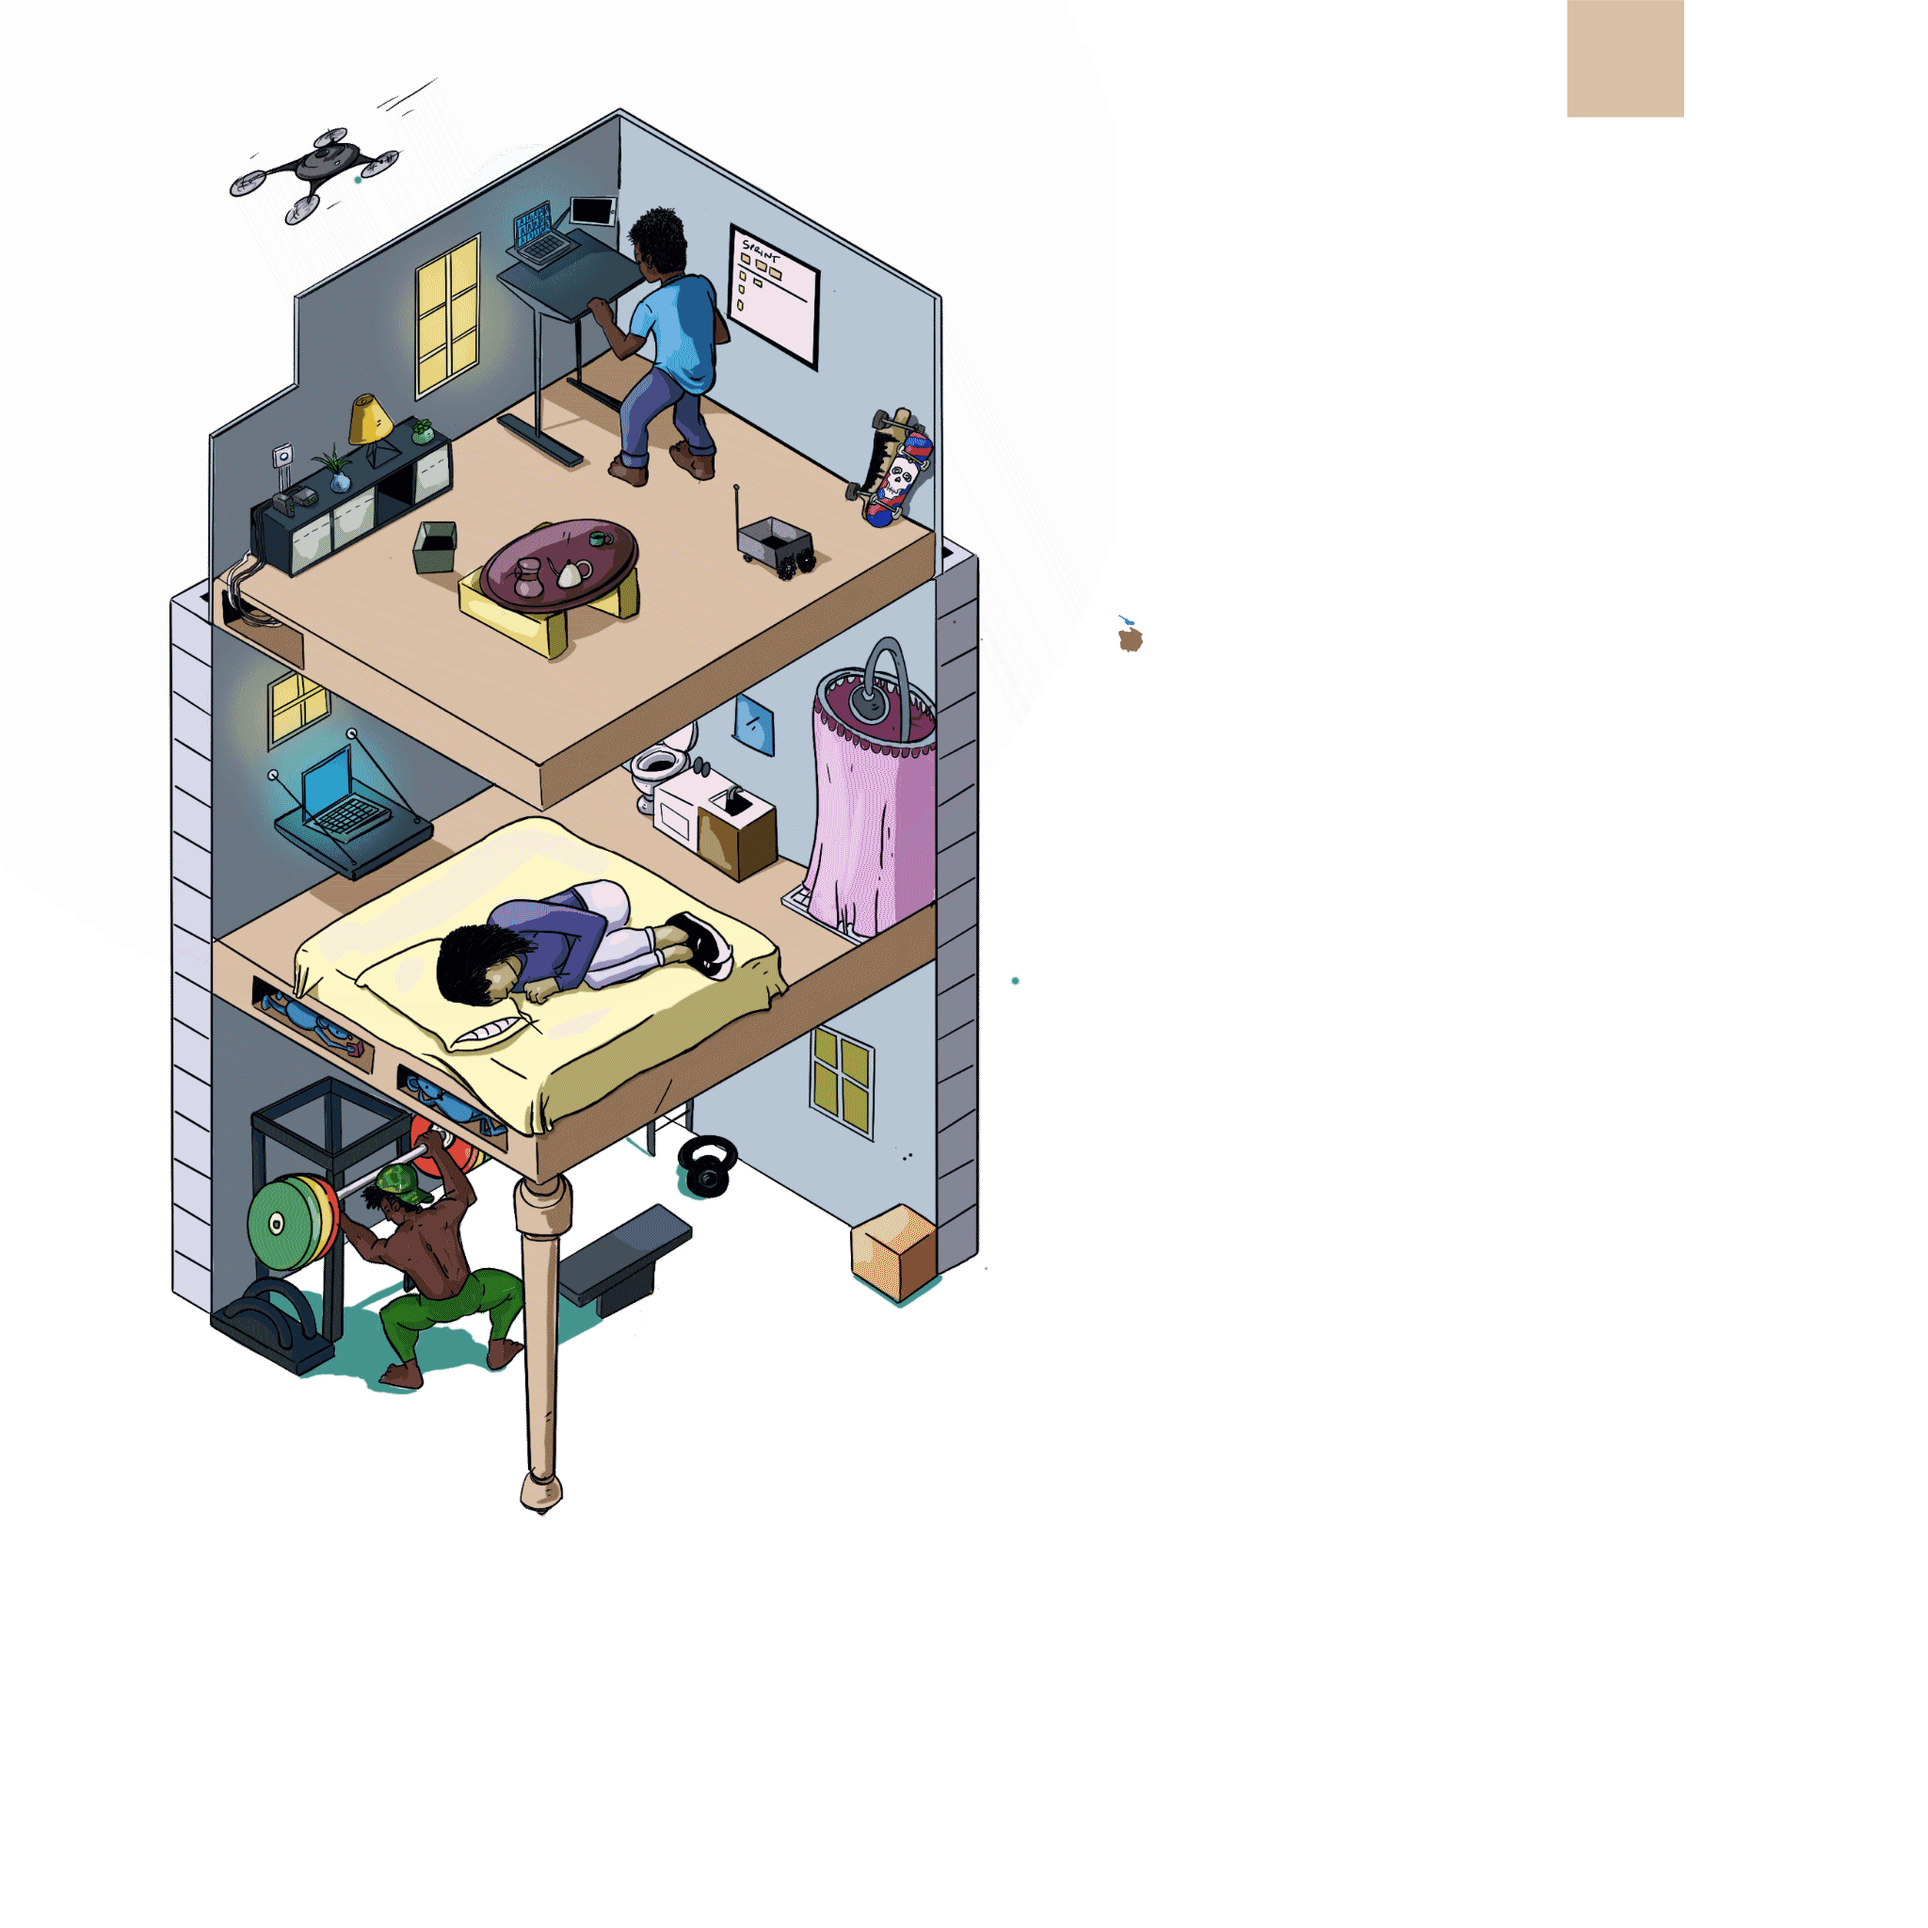
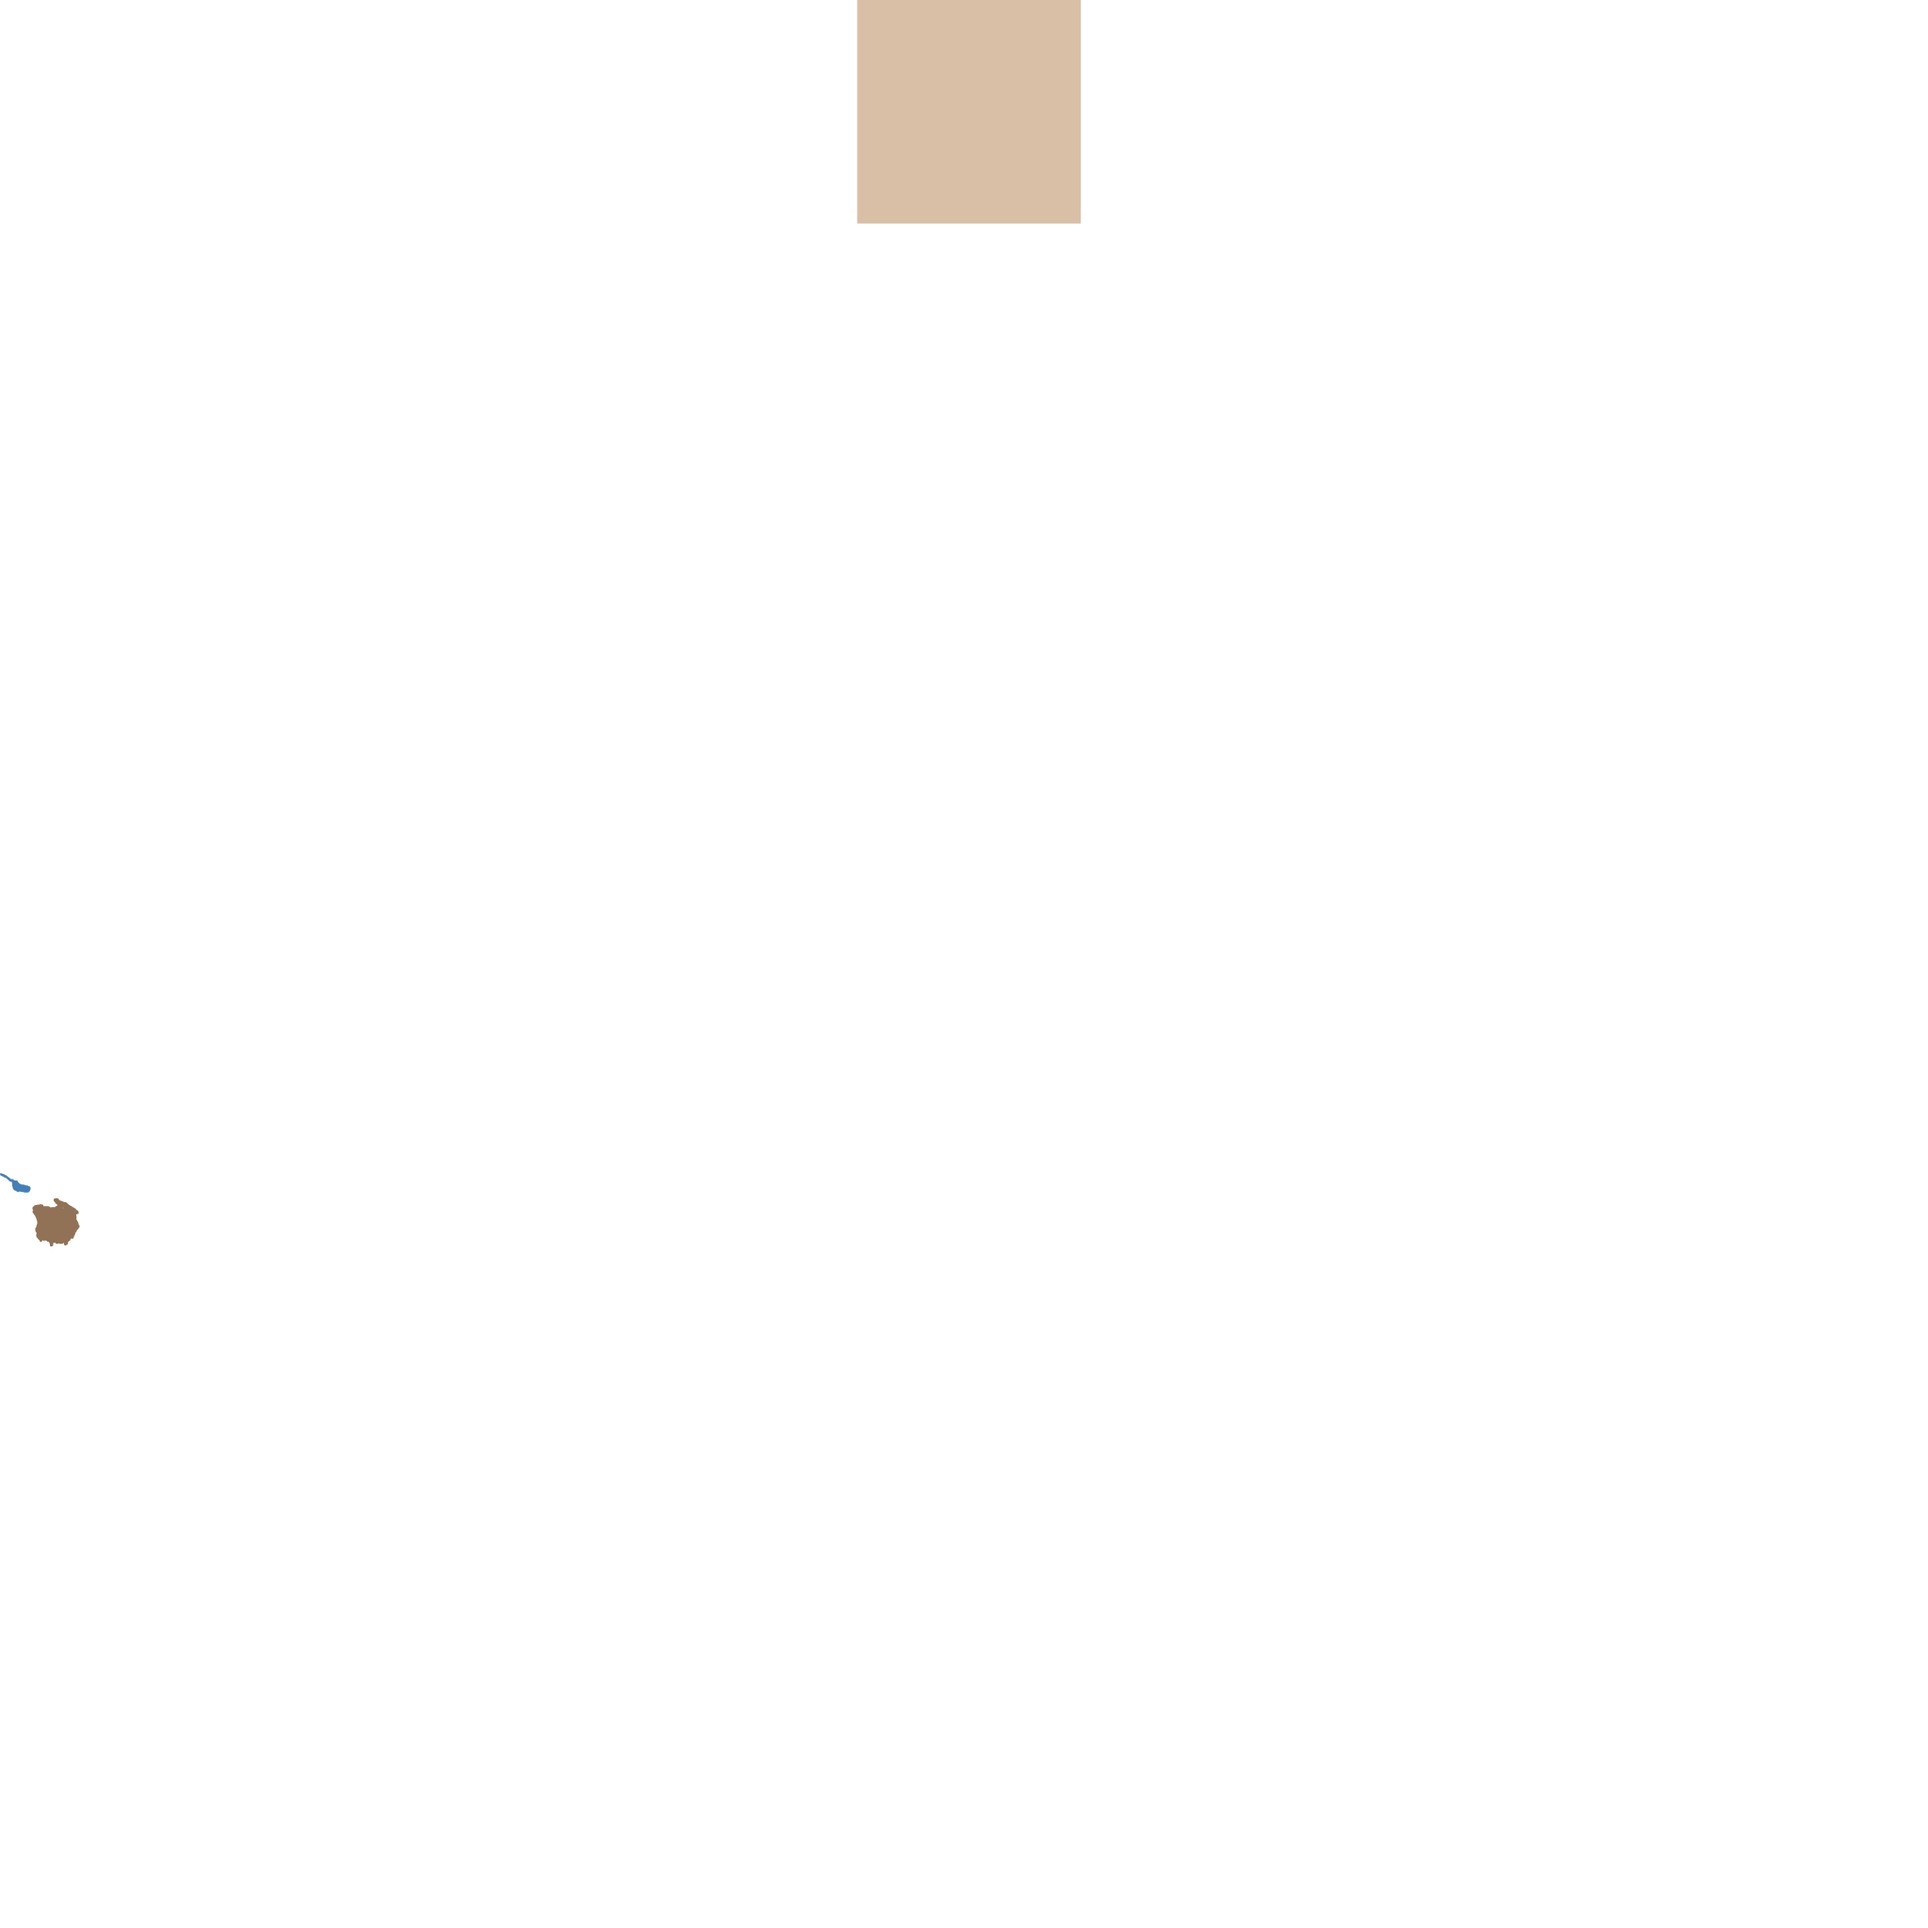
additional adjustments to scale for mobile screens

Changed region(s): [[0.0, 0.0, 0.5625, 0.7812], [0.8125, 0.0, 0.875, 0.0625], [0.5625, 0.3125, 0.5938, 0.3438]]

diff --git a/product_design/Harlem-Apt.js b/product_design/Harlem-Apt.js
@@ -3,8 +3,8 @@
 var p; // shortcut to reference prototypes
 var lib={};var ss={};var img={};
 lib.ssMetadata = [
-		{name:"Harlem_Apt_atlas_1", frames: [[0,0,1186,1612]]},
-		{name:"Harlem_Apt_atlas_2", frames: [[930,0,41,41],[0,0,928,1024]]}
+		{name:"Harlem_Apt_atlas_1", frames: [[0,0,1148,1324]]},
+		{name:"Harlem_Apt_atlas_2", frames: [[0,0,1186,1612]]}
 ];
 
 
@@ -28,22 +28,15 @@ lib.ssMetadata = [
 
 
 
-(lib.CachedBmp_10 = function() {
-	this.initialize(ss["Harlem_Apt_atlas_2"]);
+(lib.CachedBmp_13 = function() {
+	this.initialize(ss["Harlem_Apt_atlas_1"]);
 	this.gotoAndStop(0);
 }).prototype = p = new cjs.Sprite();
 
 
 
-(lib.CachedBmp_9 = function() {
-	this.initialize(ss["Harlem_Apt_atlas_2"]);
-	this.gotoAndStop(1);
-}).prototype = p = new cjs.Sprite();
-
-
-
 (lib.Image3 = function() {
-	this.initialize(ss["Harlem_Apt_atlas_1"]);
+	this.initialize(ss["Harlem_Apt_atlas_2"]);
 	this.gotoAndStop(0);
 }).prototype = p = new cjs.Sprite();
 // helper functions:
@@ -338,11 +331,11 @@ if (reversed == null) { reversed = false; }
 	// Layer_8
 	this.shape = new cjs.Shape();
 	this.shape.graphics.f().s("#000000").ss(0.2,1,1).p("AACAAQAAABgBAAQAAAAgBAAQAAAAgBAAIAAgBQABAAAAAAIABAAQABAAAAAAg");
-	this.shape.setTransform(18.325,607.525);
+	this.shape.setTransform(-37.6845,664.6247,1.2369,1.2369);
 
 	this.shape_1 = new cjs.Shape();
 	this.shape_1.graphics.f("#4580B8").s().p("AASAnIAAgCIACAAIABAAIABABIgBABIgBAAIgCAAgAgPgbIgFgCIAAgBIgBAAIAAgEIABgCIABAAIABgBIADgBIAAAAIAFACIAAACIAAAEIAAAAIgCACIgCABg");
-	this.shape_1.setTransform(16.325,603.725);
+	this.shape_1.setTransform(-40.1582,659.9246,1.2369,1.2369);
 
 	this.timeline.addTween(cjs.Tween.get({}).to({state:[{t:this.shape_1},{t:this.shape}]}).wait(1));
 
@@ -363,13 +356,10 @@ if (reversed == null) { reversed = false; }
 	cjs.MovieClip.apply(this,[props]);
 
 	// cover_up
-	this.instance = new lib.CachedBmp_10();
-	this.instance.setTransform(57.2,623.85,0.5,0.5);
+	this.instance = new lib.CachedBmp_13();
+	this.instance.setTransform(-6.8,48.25,0.5,0.5);
 
-	this.instance_1 = new lib.CachedBmp_9();
-	this.instance_1.setTransform(43.3,109.2,0.5,0.5);
-
-	this.timeline.addTween(cjs.Tween.get({}).to({state:[{t:this.instance_1},{t:this.instance}]}).wait(1));
+	this.timeline.addTween(cjs.Tween.get(this.instance).wait(1));
 
 	this._renderFirstFrame();
 
@@ -389,11 +379,11 @@ if (reversed == null) { reversed = false; }
 
 	// background
 	this.instance = new lib.Image3();
-	this.instance.setTransform(-260,-334,0.8682,0.8682);
+	this.instance.setTransform(-382,-500,1.0738,1.0738);
 
 	this.shape = new cjs.Shape();
 	this.shape.graphics.f("#44968F").s().p("Eg15AE1UAkPgbIBHkgNoMgDBAl0Mg4SAiDg");
-	this.shape.setTransform(278.8,836.775);
+	this.shape.setTransform(284.4872,948.1754,1.2369,1.2369);
 
 	this.timeline.addTween(cjs.Tween.get({}).to({state:[{t:this.shape},{t:this.instance}]}).wait(1));
 
@@ -1016,7 +1006,7 @@ if (reversed == null) { reversed = false; }
 
 	// remote_cart
 	this.instance = new lib.remote_cart();
-	this.instance.setTransform(470.35,159.45,1.5435,1.5435,0,0,0,22.2,24.8);
+	this.instance.setTransform(521.4,110.55,1.909,1.909,0,0,0,22.2,24.9);
 
 	this.timeline.addTween(cjs.Tween.get(this.instance).wait(1));
 
@@ -1038,7 +1028,7 @@ if (reversed == null) { reversed = false; }
 
 	// hand
 	this.instance = new lib.mous();
-	this.instance.setTransform(39.35,616.45,1.5435,1.5435,0,0,0,22.9,0.3);
+	this.instance.setTransform(-11.7,675.65,1.909,1.909,0,0,0,22.9,0.3);
 
 	this.timeline.addTween(cjs.Tween.get(this.instance).wait(1));
 
@@ -1100,7 +1090,7 @@ if (reversed == null) { reversed = false; }
 	// hand_obj_
 	this.hand = new lib.Scene_1_hand();
 	this.hand.name = "hand";
-	this.hand.setTransform(39.3,616.3,1,1,0,0,0,-226.2,198.8);
+	this.hand.setTransform(-11.7,675.5,1,1,0,0,0,-277.2,258);
 	this.hand.depth = 0;
 	this.hand.isAttachedToCamera = 0
 	this.hand.isAttachedToMask = 0
@@ -1113,7 +1103,7 @@ if (reversed == null) { reversed = false; }
 	// Layer_8_obj_
 	this.Layer_8 = new lib.Scene_1_Layer_8();
 	this.Layer_8.name = "Layer_8";
-	this.Layer_8.setTransform(16.3,603.7,1,1,0,0,0,-249.2,186.2);
+	this.Layer_8.setTransform(-40.1,660,1,1,0,0,0,-305.6,242.5);
 	this.Layer_8.depth = 0;
 	this.Layer_8.isAttachedToCamera = 0
 	this.Layer_8.isAttachedToMask = 0
@@ -1126,7 +1116,7 @@ if (reversed == null) { reversed = false; }
 	// remote_cart_obj_
 	this.remote_cart = new lib.Scene_1_remote_cart();
 	this.remote_cart.name = "remote_cart";
-	this.remote_cart.setTransform(333.8,261,1,1,0,0,0,68.3,-156.5);
+	this.remote_cart.setTransform(352.5,236,1,1,0,0,0,87,-181.5);
 	this.remote_cart.depth = 0;
 	this.remote_cart.isAttachedToCamera = 0
 	this.remote_cart.isAttachedToMask = 0
@@ -1139,7 +1129,7 @@ if (reversed == null) { reversed = false; }
 	// cover_up_obj_
 	this.cover_up = new lib.Scene_1_cover_up();
 	this.cover_up.name = "cover_up";
-	this.cover_up.setTransform(275.3,376.7,1,1,0,0,0,9.8,-40.8);
+	this.cover_up.setTransform(280.2,379.3,1,1,0,0,0,14.7,-38.2);
 	this.cover_up.depth = 0;
 	this.cover_up.isAttachedToCamera = 0
 	this.cover_up.isAttachedToMask = 0
@@ -1152,7 +1142,7 @@ if (reversed == null) { reversed = false; }
 	// background_obj_
 	this.background = new lib.Scene_1_background();
 	this.background.name = "background";
-	this.background.setTransform(254.8,366.4,1,1,0,0,0,-10.7,-51.1);
+	this.background.setTransform(254.7,366.3,1,1,0,0,0,-10.8,-51.2);
 	this.background.depth = 0;
 	this.background.isAttachedToCamera = 0
 	this.background.isAttachedToMask = 0
@@ -1165,7 +1155,7 @@ if (reversed == null) { reversed = false; }
 	this._renderFirstFrame();
 
 }).prototype = p = new lib.AnMovieClip();
-p.nominalBounds = new cjs.Rectangle(273.5,430.5,542,851);
+p.nominalBounds = new cjs.Rectangle(158,349,733.5,932.5);
 // library properties:
 lib.properties = {
 	id: '5E33F5F7024F4F88B83C8A35F47BEF85',
@@ -1175,8 +1165,8 @@ lib.properties = {
 	color: "#000000",
 	opacity: 1.00,
 	manifest: [
-		{src:"images/Harlem_Apt_atlas_1.png", id:"Harlem_Apt_atlas_1"},
-		{src:"images/Harlem_Apt_atlas_2.png", id:"Harlem_Apt_atlas_2"}
+		{src:"images/Harlem_Apt_atlas_1.png?1656441634051", id:"Harlem_Apt_atlas_1"},
+		{src:"images/Harlem_Apt_atlas_2.png?1656441634051", id:"Harlem_Apt_atlas_2"}
 	],
 	preloads: []
 };

diff --git a/product_factory/Product Factory.html b/product_factory/Product Factory.html
@@ -22,7 +22,7 @@
   }
 </style>
 <script src="https://code.createjs.com/1.0.0/createjs.min.js"></script>
-<script src="Product Factory.js?1656440699041"></script>
+<script src="Product Factory.js?1656441527810"></script>
 <script>
 var canvas, stage, exportRoot, anim_container, dom_overlay_container, fnStartAnimation;
 function init() {
@@ -67,9 +67,9 @@ function handleComplete(evt,comp) {
 <!-- write your code here -->
 </head>
 <body onload="init();" style="margin:0px;">
-	<div id="animation_container" style="background-color:rgba(0, 0, 0, 1.00); width:1080px; height:863px">
-		<canvas id="canvas" width="1080" height="863" style="position: absolute; display: block; background-color:rgba(0, 0, 0, 1.00);"></canvas>
-		<div id="dom_overlay_container" style="pointer-events:none; overflow:hidden; width:1080px; height:863px; position: absolute; left: 0px; top: 0px; display: block;">
+	<div id="animation_container" style="background-color:rgba(0, 0, 0, 1.00); width:1080px; height:1300px">
+		<canvas id="canvas" width="1080" height="1300" style="position: absolute; display: block; background-color:rgba(0, 0, 0, 1.00);"></canvas>
+		<div id="dom_overlay_container" style="pointer-events:none; overflow:hidden; width:1080px; height:1300px; position: absolute; left: 0px; top: 0px; display: block;">
 		</div>
 	</div>
 </body>

diff --git a/product_factory/Product Factory.js b/product_factory/Product Factory.js
@@ -541,24 +541,24 @@ if (reversed == null) { reversed = false; }
 	this.instance.setTransform(228.75,786.75,1,1,0,0,0,-131.1,129.2);
 
 	this.instance_1 = new lib.Image1();
-	this.instance_1.setTransform(238,10,0.7215,0.7215);
+	this.instance_1.setTransform(63,22,1.0938,1.0938);
 
 	this.timeline.addTween(cjs.Tween.get({}).to({state:[{t:this.instance_1},{t:this.instance}]}).wait(1));
 
 	this._renderFirstFrame();
 
 }).prototype = p = new lib.AnMovieClip();
-p.nominalBounds = new cjs.Rectangle(745.1,441.5,172.60000000000002,428.6);
+p.nominalBounds = new cjs.Rectangle(603,672,490.4000000000001,653.9000000000001);
 // library properties:
 lib.properties = {
 	id: '5E33F5F7024F4F88B83C8A35F47BEF85',
 	width: 1080,
-	height: 863,
+	height: 1300,
 	fps: 24,
 	color: "#000000",
 	opacity: 1.00,
 	manifest: [
-		{src:"images/Product Factory_atlas_1.png?1656440699021", id:"Product Factory_atlas_1"}
+		{src:"images/Product Factory_atlas_1.png?1656441527786", id:"Product Factory_atlas_1"}
 	],
 	preloads: []
 };

diff --git a/index-new.html b/index-new.html
@@ -110,7 +110,7 @@
       <h1>Designs</h1>
       <label>View</label>
     </button>
-    <iframe id="ProductFactoryFrame" src="product_factory/Product Factory.html" width="100%" height="863" title="Product Factory"></iframe>
+    <iframe id="ProductFactoryFrame" src="product_factory/Product Factory.html" width="100%" height="1300" title="Product Factory"></iframe>
   </div>
 
   <div id="productManagement" class="productContainer">

diff --git a/product_design/Harlem-Apt.html b/product_design/Harlem-Apt.html
@@ -22,7 +22,7 @@
   }
 </style>
 <script src="https://code.createjs.com/1.0.0/createjs.min.js"></script>
-<script src="Harlem-Apt.js"></script>
+<script src="Harlem-Apt.js?1656441634087"></script>
 <script>
 var canvas, stage, exportRoot, anim_container, dom_overlay_container, fnStartAnimation;
 function init() {
